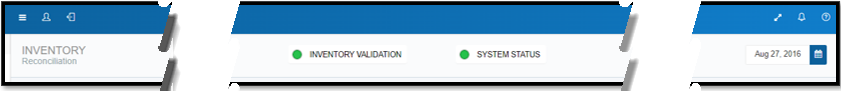
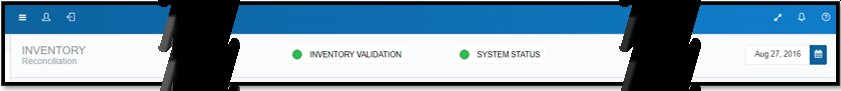
pretty work

diff --git a/RRUniversity/rapidreconciler-university.html b/RRUniversity/rapidreconciler-university.html
@@ -79,7 +79,24 @@
     justify-content: space-between;
     align-items: center;
     padding: 12px 0;
-    gap: 32px;
+    gap: 20px;
+  }
+
+  /* Merged-bar: version stamp sits beside the brand; actions are pushed right */
+  .brand-version {
+    font-family: 'JetBrains Mono', monospace;
+    font-size: 11px;
+    color: var(--text-muted);
+    font-weight: 500;
+    line-height: 1.2;
+    margin-right: auto;
+    padding-left: 4px;
+  }
+
+  .topnav-actions {
+    display: flex;
+    gap: 6px;
+    flex-shrink: 0;
   }
 
   .brand {
@@ -127,55 +144,7 @@
     text-transform: uppercase;
   }
 
-  /* ============== HERO BAND ============== */
-  /* ============== HERO BAND ============== */
-  .hero-band {
-    background: #ffffff;
-    color: var(--text);
-    border-bottom: 1px solid var(--rule);
-  }
-
-  .hero-band-inner {
-    display: flex;
-    justify-content: space-between;
-    align-items: center;
-    gap: 24px;
-    padding: 10px 40px;
-  }
-
-  .hero-band-text {
-    display: flex;
-    align-items: baseline;
-    gap: 14px;
-    min-width: 0;
-  }
-
-  .hero-band-title {
-    font-family: 'Inter', sans-serif;
-    font-style: normal;
-    font-weight: 700;
-    font-size: 13px;
-    color: var(--ink);
-    letter-spacing: -0.005em;
-    line-height: 1.2;
-  }
-
-  .hero-band-sub {
-    font-family: 'JetBrains Mono', monospace;
-    font-size: 11px;
-    font-weight: 500;
-    letter-spacing: 0;
-    text-transform: none;
-    color: var(--text-muted);
-    line-height: 1.2;
-  }
-
-  .hero-band-actions {
-    display: flex;
-    gap: 6px;
-    flex-shrink: 0;
-  }
-
+  /* ============== TOP NAV BUTTONS ============== */
   .band-btn {
     display: inline-flex;
     align-items: center;
@@ -450,10 +419,10 @@
   /* ============== RESPONSIVE ============== */
   @media (max-width: 800px) {
     .container { padding: 0 22px; }
-    .topnav-inner { padding: 14px 0; }
-    .hero-band-inner { flex-direction: column; align-items: stretch; padding: 14px 22px; gap: 12px; }
-    .hero-band-actions { justify-content: stretch; }
-    .band-btn { flex: 1; }
+    .topnav-inner { padding: 12px 0; flex-wrap: wrap; gap: 12px; }
+    .brand-version { display: none; }
+    .topnav-actions { margin-left: auto; }
+    .band-btn { padding: 6px 10px; font-size: 11.5px; }
     .footer-line { gap: 12px; font-size: 12px; }
   }
   /* ============== ROLE PATHS (card overview) ============== */
@@ -842,22 +811,15 @@
         <span class="brand-product-tag">University</span>
       </div>
     </a>
-  </div>
-</header>
-
-<!-- ============ HERO BAND ============ -->
-<section class="hero-band">
-  <div class="container hero-band-inner">
-    <div class="hero-band-text">
-      <span class="hero-band-title">RapidReconciler University</span>
-      <span class="hero-band-sub">v7.0 &middot; updated 2026-05-01</span>
-    </div>
-    <div class="hero-band-actions">
+    <span class="brand-version">v7.0 &middot; updated 2026-05-01</span>
+    <div class="topnav-actions">
       <a href="getting-started-with-rapidreconciler.html" class="band-btn band-btn-primary">App Basics</a>
       <a href="mailto:[email redacted]" class="band-btn band-btn-ghost">Contact Support</a>
     </div>
   </div>
-</section>
+</header>
+
+
 
 
 

diff --git a/RRUniversity/inventory-reconciliation.html b/RRUniversity/inventory-reconciliation.html
@@ -323,6 +323,45 @@
     background: var(--bg-soft);
   }
 
+  .view figure {
+    margin: 22px 0;
+  }
+  .view figure img {
+    margin: 0;
+    display: block;
+    width: 100%;
+  }
+  .view figure figcaption {
+    margin-top: 8px;
+    font-size: 13px;
+    line-height: 1.5;
+    color: var(--text-soft);
+    font-style: italic;
+    text-align: left;
+  }
+
+  /* For small native-resolution UI panels — don't upscale them */
+  .view figure.figure--narrow {
+    max-width: 320px;
+  }
+  .view figure.figure--narrow img {
+    width: auto;
+    max-width: 100%;
+  }
+
+  /* Side-by-side layout for related narrow figures */
+  .view .figure-pair {
+    display: flex;
+    flex-wrap: wrap;
+    gap: 28px;
+    align-items: flex-start;
+    margin: 22px 0;
+  }
+  .view .figure-pair figure {
+    margin: 0;
+    flex: 0 0 auto;
+  }
+
   /* Topic footer nav (back to index, prev/next) */
   .topic-footer-nav {
     display: flex;
@@ -468,21 +507,29 @@
     text-transform: uppercase;
   }
   .view .checklist li {
-    padding: 12px 18px 12px 46px;
+    padding: 12px 18px 12px 42px;
     position: relative;
     margin-bottom: 0;
     border-top: 1px solid var(--rule);
     font-size: 14.5px;
     line-height: 1.55;
   }
-  .view .checklist li::before {
+  /* Title row: no checkbox, no extra left padding */
+  .view .checklist li.checklist-title {
+    padding: 10px 18px;
+    border-top: none;
+  }
+  .view .checklist li.checklist-title::before {
+    content: none;
+  }
+  .view .checklist li:not(.checklist-title)::before {
     content: '';
     position: absolute;
-    left: 18px;
-    top: 16px;
-    width: 18px;
-    height: 18px;
-    border: 2px solid var(--rule-strong);
+    left: 16px;
+    top: 15px;
+    width: 16px;
+    height: 16px;
+    border: 1.5px solid var(--rule-strong);
     border-radius: 3px;
     background: #fff;
   }
@@ -1208,6 +1255,11 @@
 
         <p>Both status indicators at the top center of the Reconciliation page <strong>must be green</strong> before you make any GL adjustments.</p>
 
+        <figure>
+          <img src="images/rr_module_status_bar.png" alt="The Inventory module header bar showing the Inventory Validation and System Status indicators in green, with the period selector on the right." />
+          <figcaption>The Inventory module header bar. The two status lights sit at the top center; the period selector is on the right.</figcaption>
+        </figure>
+
         <table>
           <thead>
             <tr><th style="width:18%;">Light</th><th>Green Means</th><th>Red Means</th><th>What To Do If Red</th></tr>
@@ -1232,6 +1284,11 @@
           <li>Apply filters in left-to-right order: <strong>Company &rarr; Business Unit &rarr; Object &rarr; Subsidiary</strong>. Removing a company also removes its child entities.</li>
           <li>Filter and period selections persist as you move between pages within the inventory module.</li>
         </ul>
+
+        <figure>
+          <img src="images/inventory_filters_panel.png" alt="The FILTERS panel showing five columns: Base Currency, Company, Business Unit, Object, and Subsidiary. Each column has a search box and a checkbox list with All selected at the top." />
+          <figcaption>The FILTERS panel. Apply filters left to right &mdash; Company drives Business Unit, which drives Object, which drives Subsidiary.</figcaption>
+        </figure>
 
         <div class="callout note">
           <div class="callout-icon">i</div>
@@ -1261,6 +1318,11 @@
 
         <p>The Valuation section answers one question: <em>does perpetual match the GL for this period and these accounts?</em></p>
 
+        <figure class="figure--narrow">
+          <img src="images/inventory_valuation_panel.png" alt="The Valuation panel showing GL Balance, Perpetual Balance, and an Out of Balance amount highlighted in orange." />
+          <figcaption>The Valuation panel. <strong>Out of Balance</strong> is highlighted whenever it isn&rsquo;t zero.</figcaption>
+        </figure>
+
         <table>
           <thead>
             <tr><th style="width:24%;">Field</th><th>What It Shows</th><th>Source</th></tr>
@@ -1283,6 +1345,11 @@
         <h2>2.2 &nbsp; Work through each variance source</h2>
 
         <p>Every non-zero line in the Variance Calculation section needs attention. The sum of these lines equals the total Out of Balance amount.</p>
+
+        <figure class="figure--narrow">
+          <img src="images/inventory_variance_calculation_panel.png" alt="The Variance Calculation panel listing six variance sources &mdash; Carry Forward, GL Batches, End of Day, Transactions, Cardex, and Manual Journal Entries &mdash; with a highlighted Unreconciled Variance total." />
+          <figcaption>The Variance Calculation panel. The lines above sum to <strong>Unreconciled Variance</strong>, which equals <strong>Out of Balance</strong> in the Valuation panel.</figcaption>
+        </figure>
 
         <h3 class="variance-source">Carry Forward</h3>
         <p style="font-style:italic; color:var(--text-soft); margin-bottom:14px;">The variance from the prior period that wasn&rsquo;t fully cleared.</p>
@@ -1438,6 +1505,11 @@
         <h2>3.3 &nbsp; Produce and save the Audit Report</h2>
 
         <p>The Audit Report is your permanent record of the period&rsquo;s reconciliation. <strong>Produce it for every period and save it externally</strong> &mdash; detail data may be removed during a future purge.</p>
+
+        <figure class="figure--narrow">
+          <img src="images/inventory_audit_report_button.png" alt="The bottom of the Variance Calculation panel showing the Journal Entry and Audit Report buttons, with the Audit Report button circled in red." />
+          <figcaption>Click <strong>Audit Report</strong> at the bottom of the Variance Calculation panel.</figcaption>
+        </figure>
 
         <p>The report contains:</p>
 